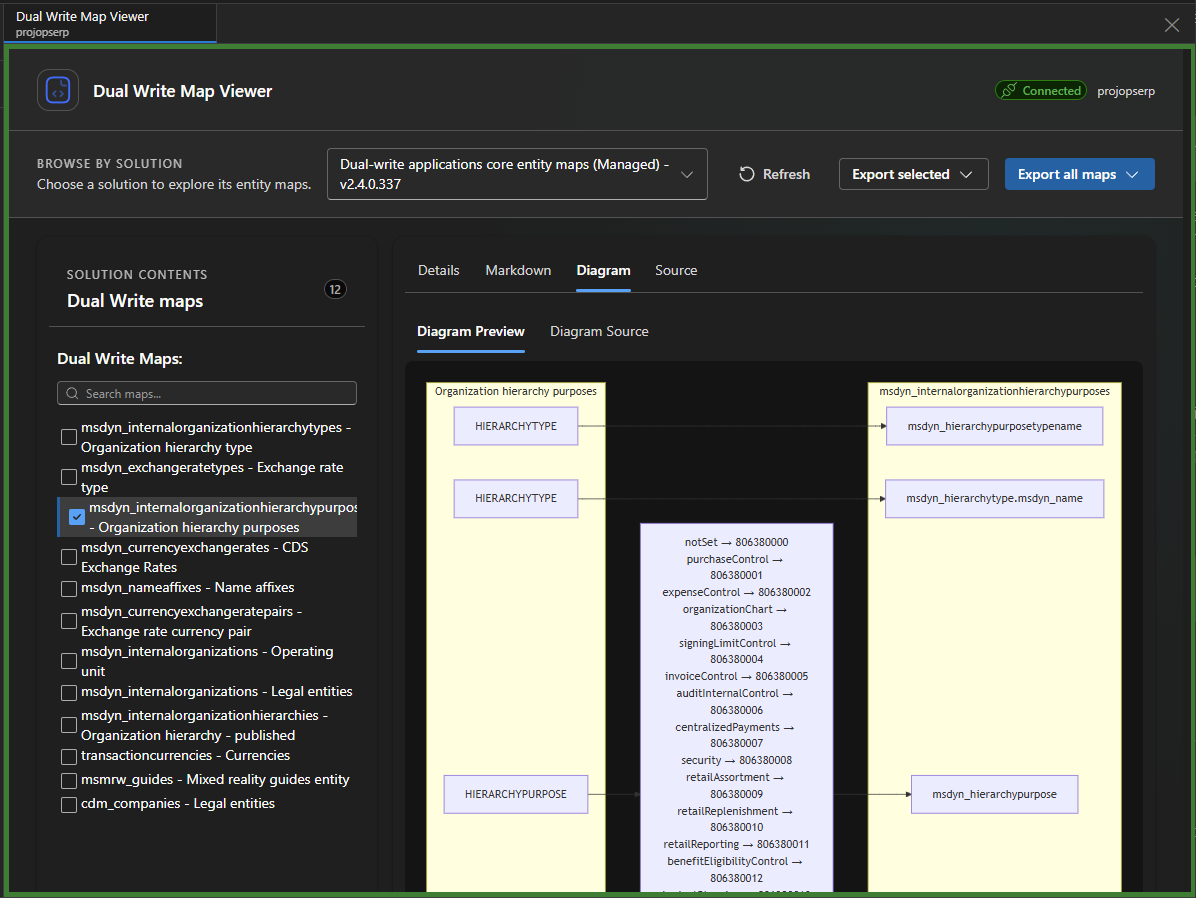
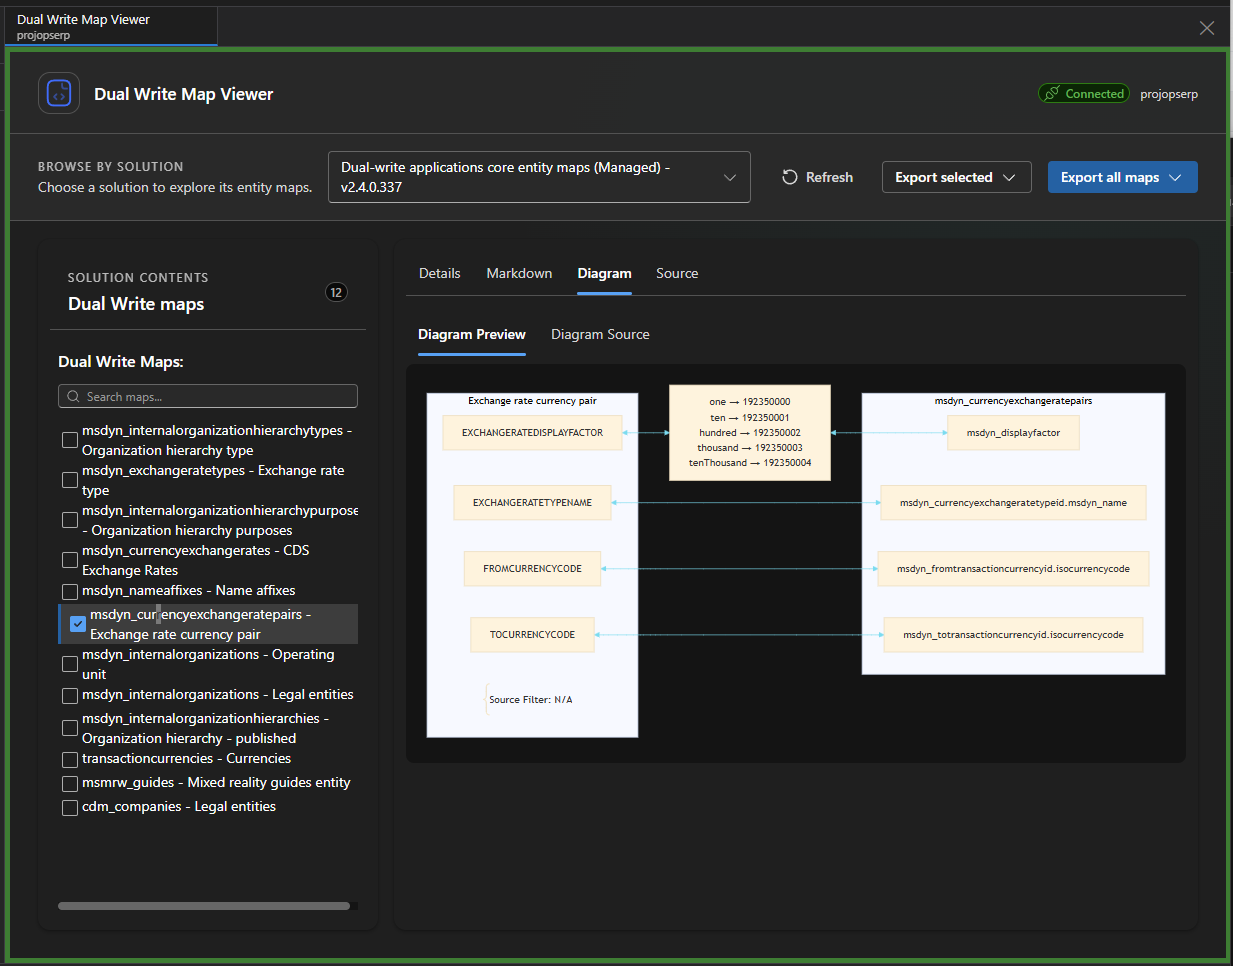
Improve diagram connector contrast

diff --git a/src/components/DualWriteMapPreview.tsx b/src/components/DualWriteMapPreview.tsx
@@ -71,10 +71,11 @@ const useStyles = makeStyles({
 
 export interface DualWriteMapPreview {
   dualwritemap?: DualWriteMap;
+  theme?: "light" | "dark";
 }
 
 export const DualWriteMapPreview = (props: DualWriteMapPreview) => {
-  const { dualwritemap } = props;
+  const { dualwritemap, theme = "light" } = props;
   const styles = useStyles();
   const [selectedTab, setSelectedTab] = useState<TabValue>("detailTab");
 
@@ -277,7 +278,13 @@ export const DualWriteMapPreview = (props: DualWriteMapPreview) => {
       try {
         const mdCode = generateMapDiagram(dualwritemap);
         setMermaidCode(mdCode);
-        mermaid.initialize({ startOnLoad: false });
+        mermaid.initialize({
+          startOnLoad: false,
+          theme: "base",
+          themeVariables: {
+            lineColor: theme === "dark" ? "#66d9ef" : "#0078d4",
+          },
+        });
         mermaid
           .render("mermaid-diagram", mdCode)
           .then((result) => {
@@ -292,7 +299,7 @@ export const DualWriteMapPreview = (props: DualWriteMapPreview) => {
           `<p style="color: red;">Error generating diagram: ${error.message}</p>`,
         );
       }
-    }, [dualwritemap]);
+    }, [dualwritemap, theme]);
 
     return (
       <div>

diff --git a/src/App.tsx b/src/App.tsx
@@ -394,7 +394,7 @@ function App() {
 
           <Card className="preview-panel" appearance="filled-alternative">
             {selectedMap ? (
-              <DualWriteMapPreview dualwritemap={selectedMap} />
+              <DualWriteMapPreview dualwritemap={selectedMap} theme={theme} />
             ) : (
               <div className="preview-empty">
                 <div className="preview-glyph" aria-hidden="true">
